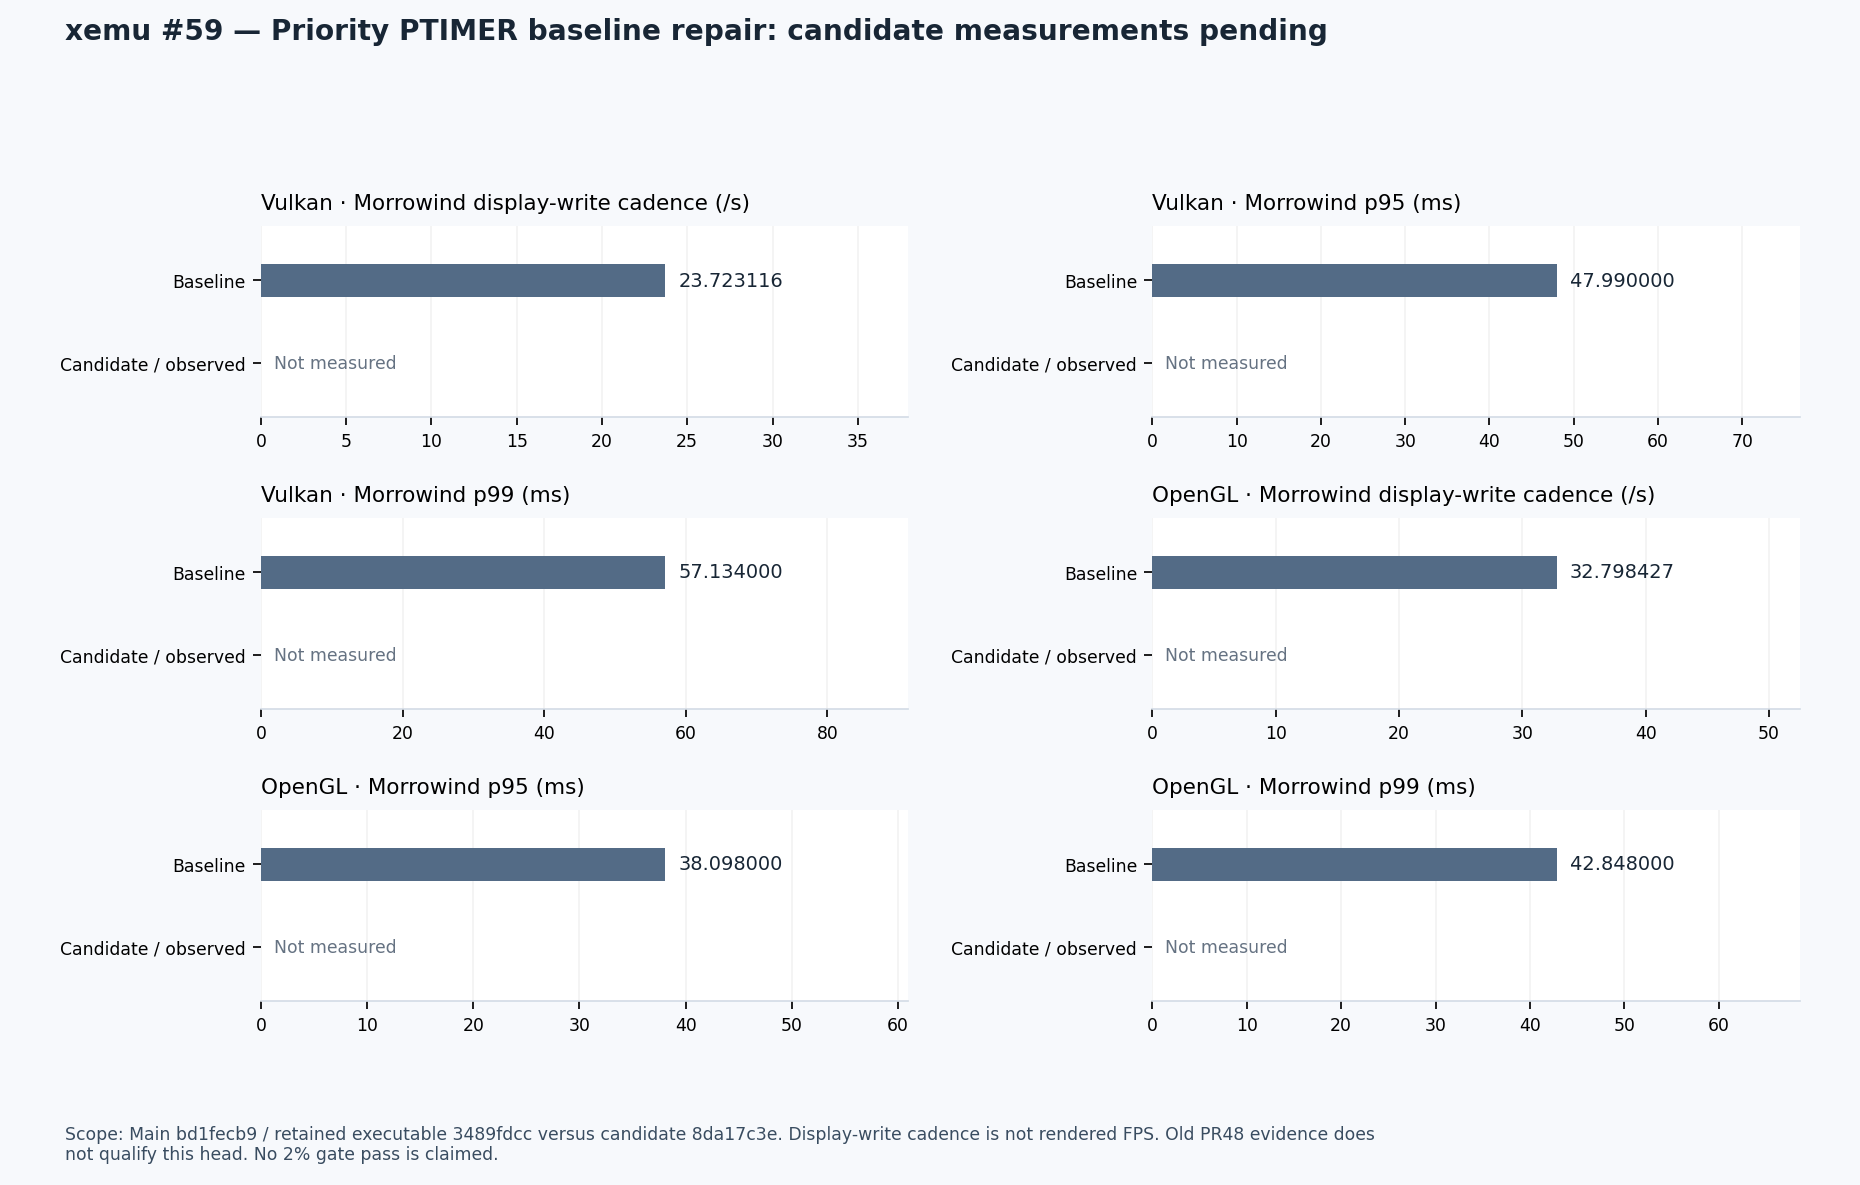
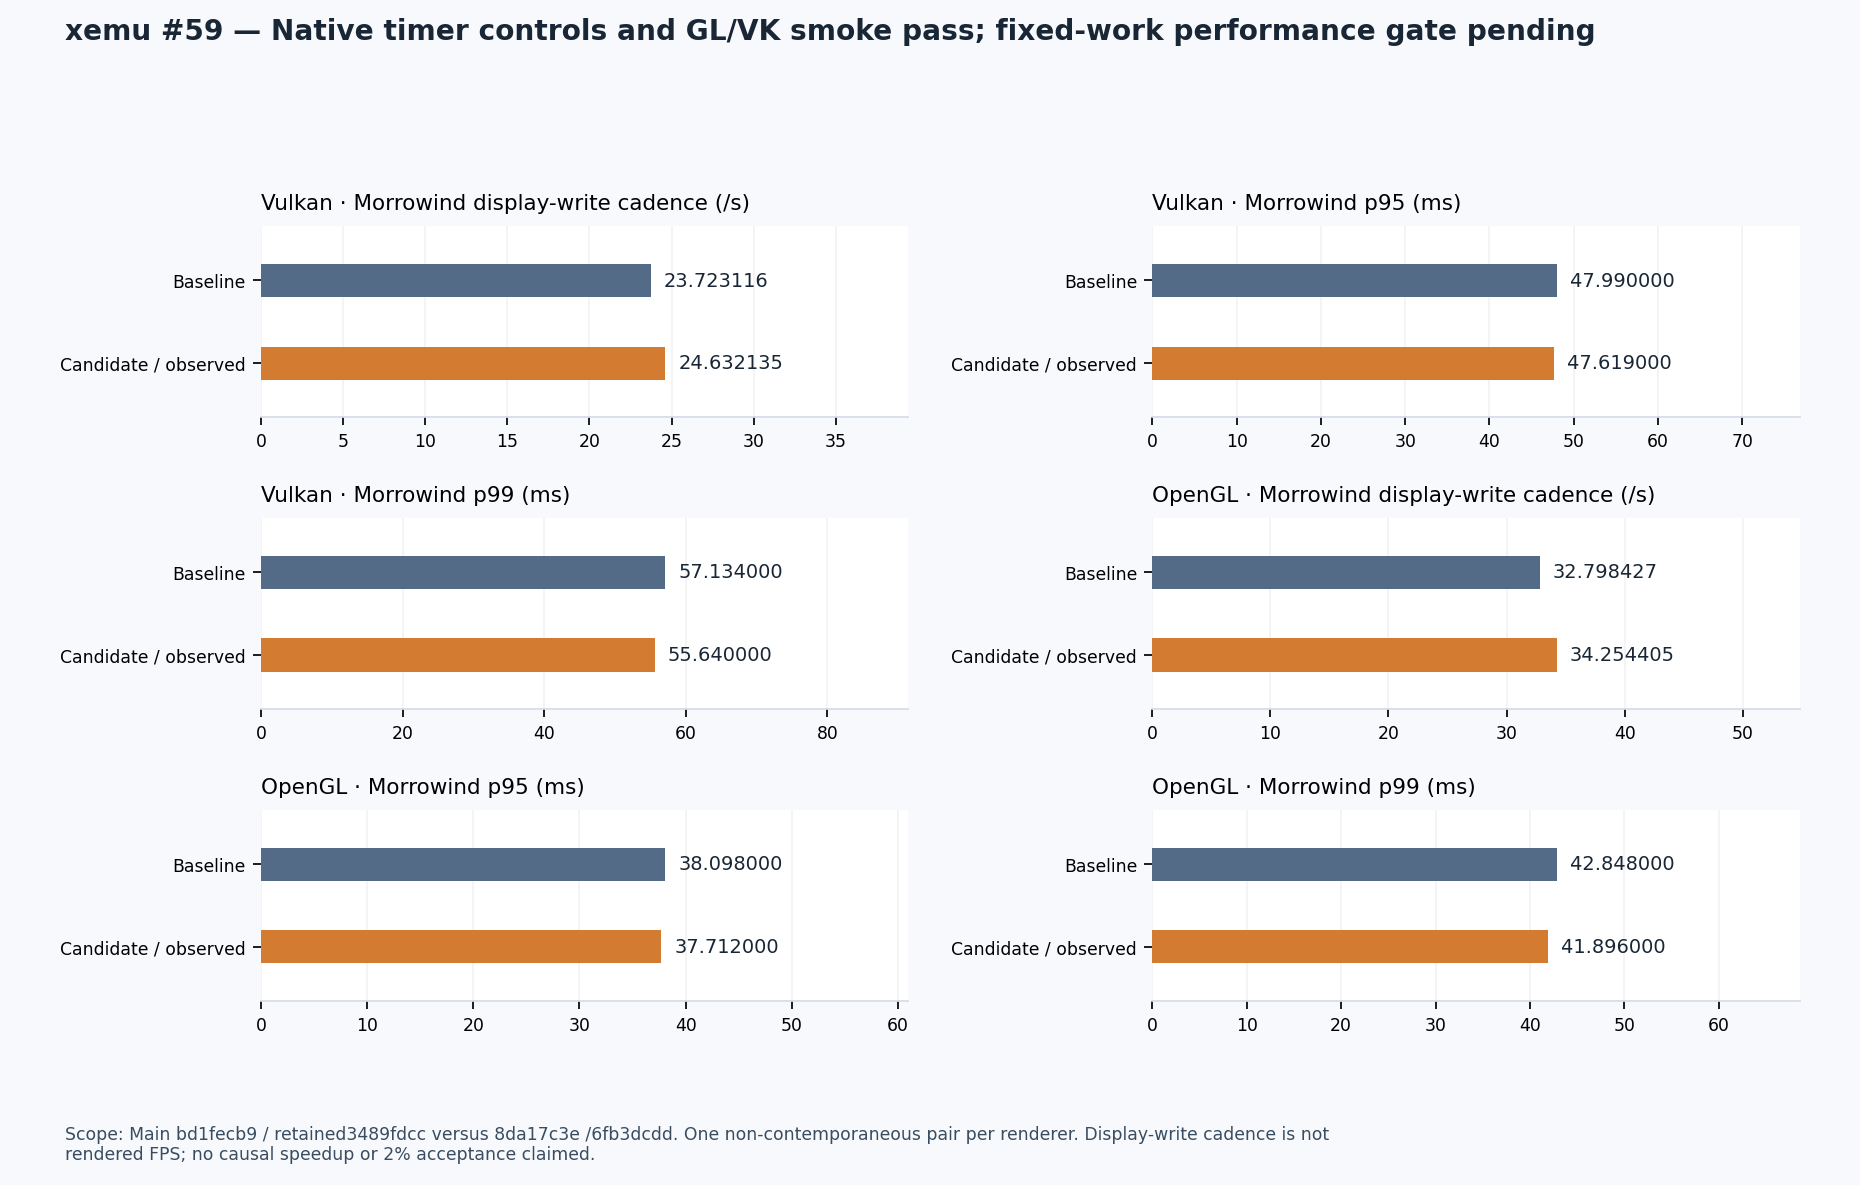
test: record PTIMER candidate Morrowind renderer checks

diff --git a/docs/evidence/ptimer-main-20260909/REPORT.md b/docs/evidence/ptimer-main-20260909/REPORT.md
@@ -2,7 +2,7 @@
 
 [PR #59](https://github.com/Mainkill1/xemu/pull/59) prioritizes [masked-alarm issue #40](https://github.com/Mainkill1/xemu/issues/40), with the separately tracked [deadline issue #39](https://github.com/Mainkill1/xemu/issues/39). Main remains unchanged. Other optimization tests are paused pending this baseline decision.
 
-![Retained baseline metrics; candidate pending](metrics.png)
+![Retained baseline versus candidate Morrowind smoke metrics](metrics.png)
 
 | Evidence | Status |
 | --- | --- |
@@ -12,10 +12,10 @@
 | Production Xbox timer suite | 24/24 PASS natively, exit 0 |
 | Shared generic timer suite | 576/576 PASS natively, exit 0; shared stub regression check |
 | Exact current-main negative controls | Pending; old S-based reports do not qualify this baseline |
-| Native VMState and guest checks | Pending |
+| Native VMState and guest checks | v4 Morrowind GL/VK smoke passed; v4/v5/v4 roundtrip pending |
 | Fixed-work performance and resources | Pending; no 2% gate pass claimed |
 
-The chart shows retained main Morrowind display-write cadence and interval tails, not rendered FPS. It contains no measured candidate values. Raw numeric inputs are in [metrics.json](metrics.json), identities and artifact hashes in [manifest.json](manifest.json). Renderer: [shared chart script](../../pr-metrics-20260909/render_pr_charts.py), matplotlib 3.10.6.
+The chart compares retained main and candidate Morrowind display-write cadence and interval tails, not rendered FPS. Both candidate cells completed, but this single non-contemporaneous comparison does not establish a causal performance improvement or pass the 2% gate. Raw numeric inputs are in [metrics.json](metrics.json), identities and artifact hashes in [manifest.json](manifest.json). Renderer: [shared chart script](../../pr-metrics-20260909/render_pr_charts.py), matplotlib 3.10.6.
 
 The existing baseline executable is reused. Matching measurements may need collection where none exist; the baseline emulator will not be rebuilt for this experiment. Main can be updated only after the known defects are fixed and applicable correctness/performance gates pass. A measured regression above 2% rejects the candidate; missing or inconclusive evidence does not approve it.
 
@@ -26,3 +26,14 @@ Historical [PR #48](https://github.com/Mainkill1/xemu/pull/48) controls and snap
 The optimized candidate linked with all seven recorded build options matching the retained baseline. Native Windows execution passed **24/24 Xbox production-timer controls** and **576/576 generic timer controls**, exit 0, with no stderr. [Build identity/options](build.json) and [source-pinned native results](native-units/results.json) include both unit hashes. Complete TAP is published as UTF-8 with original byte hashes retained in the manifest.
 
 The copied build directory first required its configured mount paths, then Meson test dispatch failed on a stored API mismatch before running tests. Direct execution of the linked Windows units avoided a rebuild. The first native collector lost exit status; its complete passing TAP was insufficient for acceptance. One corrected unit-only collection recorded exit 0. These setup/collection failures remain explicit and do not count as candidate test failures or performance results.
+
+## Morrowind GL/VK smoke
+
+Both 20-second candidate cells reached running gameplay, passed image checks, closed normally, deleted their private HDD and preserved the immutable seed. Root independently inspected the final images and verified their hashes.
+
+| Renderer | Cadence baseline / candidate | p95 baseline / candidate | p99 baseline / candidate |
+| --- | ---: | ---: | ---: |
+| Vulkan | 23.723116 / 24.632135 per second | 47.990 / 47.619 ms | 57.134 / 55.640 ms |
+| OpenGL | 32.798427 / 34.254405 per second | 38.098 / 37.712 ms | 42.848 / 41.896 ms |
+
+[Numeric comparison](morrowind-comparison.json), [Vulkan record](vulkan-morrowind.json), [OpenGL record](opengl-morrowind.json). The observed cadence changes are +3.832% and +4.439%; both interval tails also moved favorably. Host CPU/GPU/RAM/VRAM were not collected in these cells. These observations retain their drift and comparability limits; the fixed-work comparison and real v4/v5/v4 roundtrip remain separate gates.
